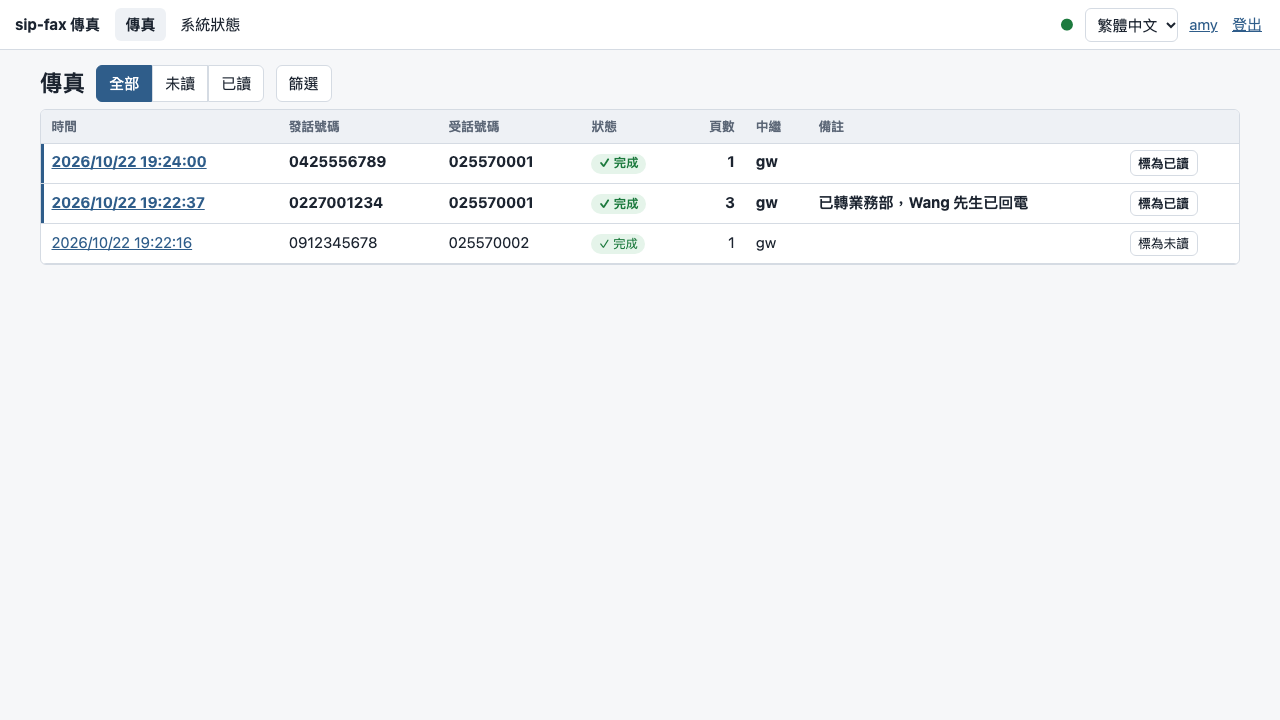
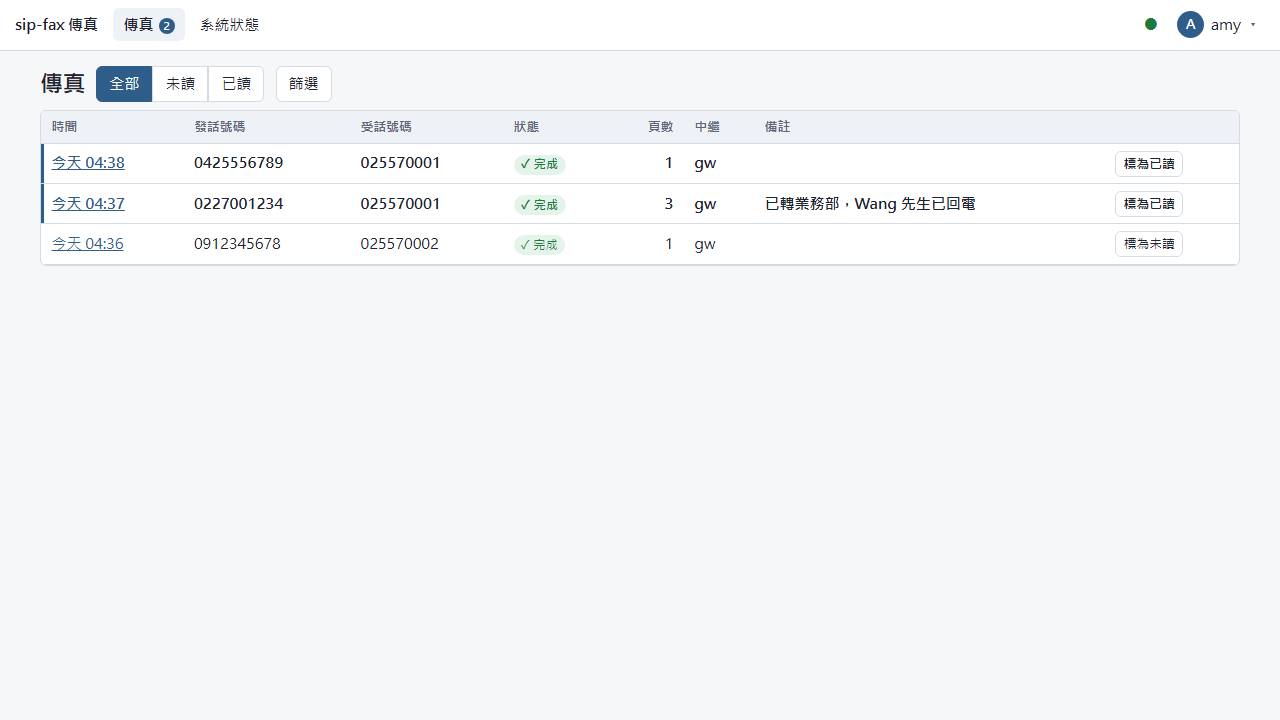
manuals: new screenshots and text for the UI/UX pass; "More details" no longer centred
The details element had the class `more`, which is also the centred "load more" bar of the fax
list; it is `more-details` now, and U25 checks that it starts at the left of its card.

diff --git a/web-ui/e2e/uiux.spec.ts b/web-ui/e2e/uiux.spec.ts
@@ -86,7 +86,11 @@ test('U25 the fax page shows the details and the note beside the pages, without 
       expect(b.x, `${sel} is right of the pages`).toBeGreaterThan(view.x + view.width - 1);
       expect(b.y + b.height, `${sel} is in the first screen`).toBeLessThan(800);
     }
-    // the technical details wait behind "More details"
+    // the technical details wait behind "More details", which starts at the left of its card
+    // (it once took the centred layout of the list's "load more" bar through a shared class name)
+    const more = page.getByText(tr('fax.more_details'), { exact: true });
+    const card = (await page.locator('.detail-side .card').first().boundingBox())!;
+    expect((await more.boundingBox())!.x - card.x).toBeLessThan(60);
     await expect(page.getByText(fax.call_id, { exact: true })).toBeHidden();
     await page.getByText(tr('fax.more_details'), { exact: true }).click();
     await expect(page.getByText(fax.call_id, { exact: true })).toBeVisible();

diff --git a/web-ui/src/routes/FaxDetail.svelte b/web-ui/src/routes/FaxDetail.svelte
@@ -262,7 +262,7 @@
             <dt>{t('fax.resolution')}</dt><dd>{fax.resolution ? t(`fax.resolution_value.${fax.resolution}`) : ''}</dd>
             {#if fax.read_changed_by}<dt>{t('fax.read_by')}</dt><dd>{fax.read_changed_by} · {fmt(fax.read_changed_at)}</dd>{/if}
           </dl>
-          <details class="more">
+          <details class="more-details">
             <summary>{t('fax.more_details')}</summary>
             <dl class="details">
               <dt>{t('fax.ended_at')}</dt><dd>{fmt(fax.ended_at)}</dd>

diff --git a/web-ui/src/app.css b/web-ui/src/app.css
@@ -826,20 +826,20 @@ dl.details dd {
   margin-top: 0.5rem;
 }
 
-details.more {
+/* (not `.more`: that is the "load more" bar of the fax list) */
+details.more-details {
   margin-top: 0.75rem;
   border-top: 1px solid var(--border);
   padding-top: 0.5rem;
 }
 
-details.more summary {
-  text-align: left;
+details.more-details summary {
   cursor: pointer;
   color: var(--muted);
   font-size: 0.9rem;
 }
 
-details.more[open] summary {
+details.more-details[open] summary {
   margin-bottom: 0.5rem;
 }
 

diff --git a/docs/manual/agent.md b/docs/manual/agent.md
@@ -20,23 +20,23 @@
 
 - 連續輸錯密碼 5 次，帳號會鎖定 15 分鐘。
 - 閒置 8 小時沒有操作，或登入滿 7 天，需要重新登入。
-- 用完請按右上角的「登出」，特別是共用電腦。
+- 用完請登出（點右上角你的名稱，選「登出」），特別是共用電腦。
 
 ## 2. 傳真列表
 
-登入後看到的就是傳真列表，最新的在最上面。
+登入後看到的就是傳真列表，最新的在最上面。上方選單「傳真」旁的數字是目前還沒讀的份數，有新傳真或有人標為已讀時會自動更新。
 
 ![傳真列表](images/list.png)
 
 | 欄位 | 說明 |
 |---|---|
-| 時間 | 來電時間（依你電腦的時區）。點時間可以開啟這份傳真。 |
+| 時間 | 來電時間（依你電腦的時區）：今天的顯示「今天 14:05」，昨天的顯示「昨天」，更早的顯示日期；滑鼠移到時間上可看到完整時間。 |
 | 發話號碼 | 對方的號碼；對方隱藏號碼時顯示「（未顯示號碼）」。 |
 | 受話號碼 | 對方撥打的號碼（你們的傳真號碼）。 |
 | 狀態 | 見下表。 |
 | 頁數 | 收到的頁數。 |
 | 中繼 | 從哪一條線路進來。 |
-| 備註 | 備註的開頭。 |
+| 備註 | 備註的開頭；滑鼠移上去可看全文。 |
 
 **狀態**
 
@@ -75,14 +75,14 @@
 
 ## 4. 看傳真內容
 
-在列表點時間，開啟這份傳真。
+在列表點一下那一列（任何地方都可以），開啟這份傳真。
 
 ![傳真內容](images/detail.png)
 
 - **換頁**：左邊是各頁縮圖，點縮圖換頁；也可以按「上一頁／下一頁」，或用鍵盤的左右方向鍵。
 - **縮放**：「縮放」選單可以選「符合寬度」或 50%–200%，放大後可以捲動查看細節。
 - **下載**：「下載 PDF」適合列印或轉寄；「下載 TIFF」是原始傳真格式。
-- **詳細資料**：右側列出號碼、對方識別、時間、通話長度、頁數、結束原因等。傳真不完整時，「結束原因」會說明原因，例如「對方在傳真完成前掛斷」。
+- **詳細資料**：在預覽右邊，列出時間、號碼、對方識別、線路、頁數與解析度；通話長度、結束原因等在「更多資訊」裡。傳真不完整時，「結束原因」會說明原因，例如「對方在傳真完成前掛斷」。
 - 傳真檔案超過保存期限被清除後，頁面會顯示清除的日期，這時只剩紀錄，無法預覽或下載。
 
 ## 5. 已讀與未讀
@@ -95,7 +95,7 @@
 
 ## 6. 備註
 
-在傳真內容頁下方的「備註」輸入文字（例如「已轉業務部」「請回電」），按「儲存備註」。
+在傳真內容頁右邊的「備註」輸入文字（例如「已轉業務部」「請回電」），按「儲存備註」。
 
 ![備註](images/note.png)
 
@@ -110,7 +110,7 @@
 
 ## 7. 投遞狀態
 
-如果系統設定了自動投遞（例如轉寄到 Email、存到共用資料夾），傳真內容頁下方的「投遞」會列出每個目的地：
+如果系統設定了自動投遞（例如轉寄到 Email、存到共用資料夾），傳真內容頁右邊的「投遞」會列出每個目的地：
 
 | 狀態 | 意思 |
 |---|---|
@@ -119,16 +119,22 @@
 | 失敗（會重試） | 這次失敗，系統會自動再試（1、5、15、60 分鐘後，之後每 4 小時）。 |
 | 已放棄 | 重試多次仍失敗。請通知管理員，管理員可以按「重新投遞」。 |
 
-「最後的錯誤」欄位是給 IT 判斷原因用的。
+顯示在目的地下方的錯誤訊息是給 IT 判斷原因用的。
 
 ## 8. 系統狀態
 
 上方選單的「系統狀態」顯示服務是否正常、進行中的通話數，以及各線路的註冊狀態。傳真一直沒進來時，可以先看這裡，再通知 IT。
 
-## 9. 語言與密碼
+## 9. 語言、外觀與密碼
 
-- **語言**：右上角的語言選單可以切換繁體中文／English，只影響這台電腦的瀏覽器。
-- **我的帳號**：點右上角你的帳號名稱，可以把語言存到帳號（在任何電腦登入都使用），以及變更密碼。
+點右上角你的名稱，打開帳號選單：
+
+- **語言**：切換繁體中文／English，只影響這台電腦的瀏覽器。
+- **外觀**：跟隨系統（預設）、明亮或深色，只影響這台電腦的瀏覽器。
+- **我的帳號**：可以把語言存到帳號（在任何電腦登入都使用），以及變更密碼。
+- **登出**。
+
+按 Esc 或點選單外面就會關閉選單。
 
 ## 10. 只用鍵盤操作
 

diff --git a/docs/TODO.md b/docs/TODO.md
@@ -184,7 +184,7 @@
     - [x] ⑭ 新增帳號按按鈕才打開、⑮ 帳號列表按鈕對齊（`<td class="toolbar">` 是 flex，破壞表格）U23
     - 還沒做（之後再排）：③ 連線圓點改為斷線時的文字提示、⑦ 列表欄寬、⑧ 空狀態說明、⑩ 上一份／下一份傳真、⑫ 離開頁面前提醒未儲存、⑬ 設定欄位寬度一致、⑯ 系統狀態加今日統計與磁碟空間（要動後端）、⑰ 登入頁排版與顯示密碼
     - ④ 手機與窄螢幕版面：2026-10-23 使用者決定不做（介面以桌機瀏覽器為主）
-    - 手冊截圖（`docs/manual/images/`）在合併前重跑
+    - [x] 手冊截圖（`docs/manual/images/`）重跑，座席與 IT 手冊內文同步（帳號選單、未讀數、整列可點、資訊欄、⟲ 標記、新增帳號按鈕）
 
 ### 文件（優先級在功能開發之後）
 > 2026-10-22 使用者決定：使用手冊分「座席」與「IT」兩份；先寫 Markdown（`docs/manual/`，繁中），要 release 時轉成 PDF；正式 release 的 PDF 手冊要含截圖畫面（Web 的截圖可在 M4c 以 Playwright 自動產生）。
